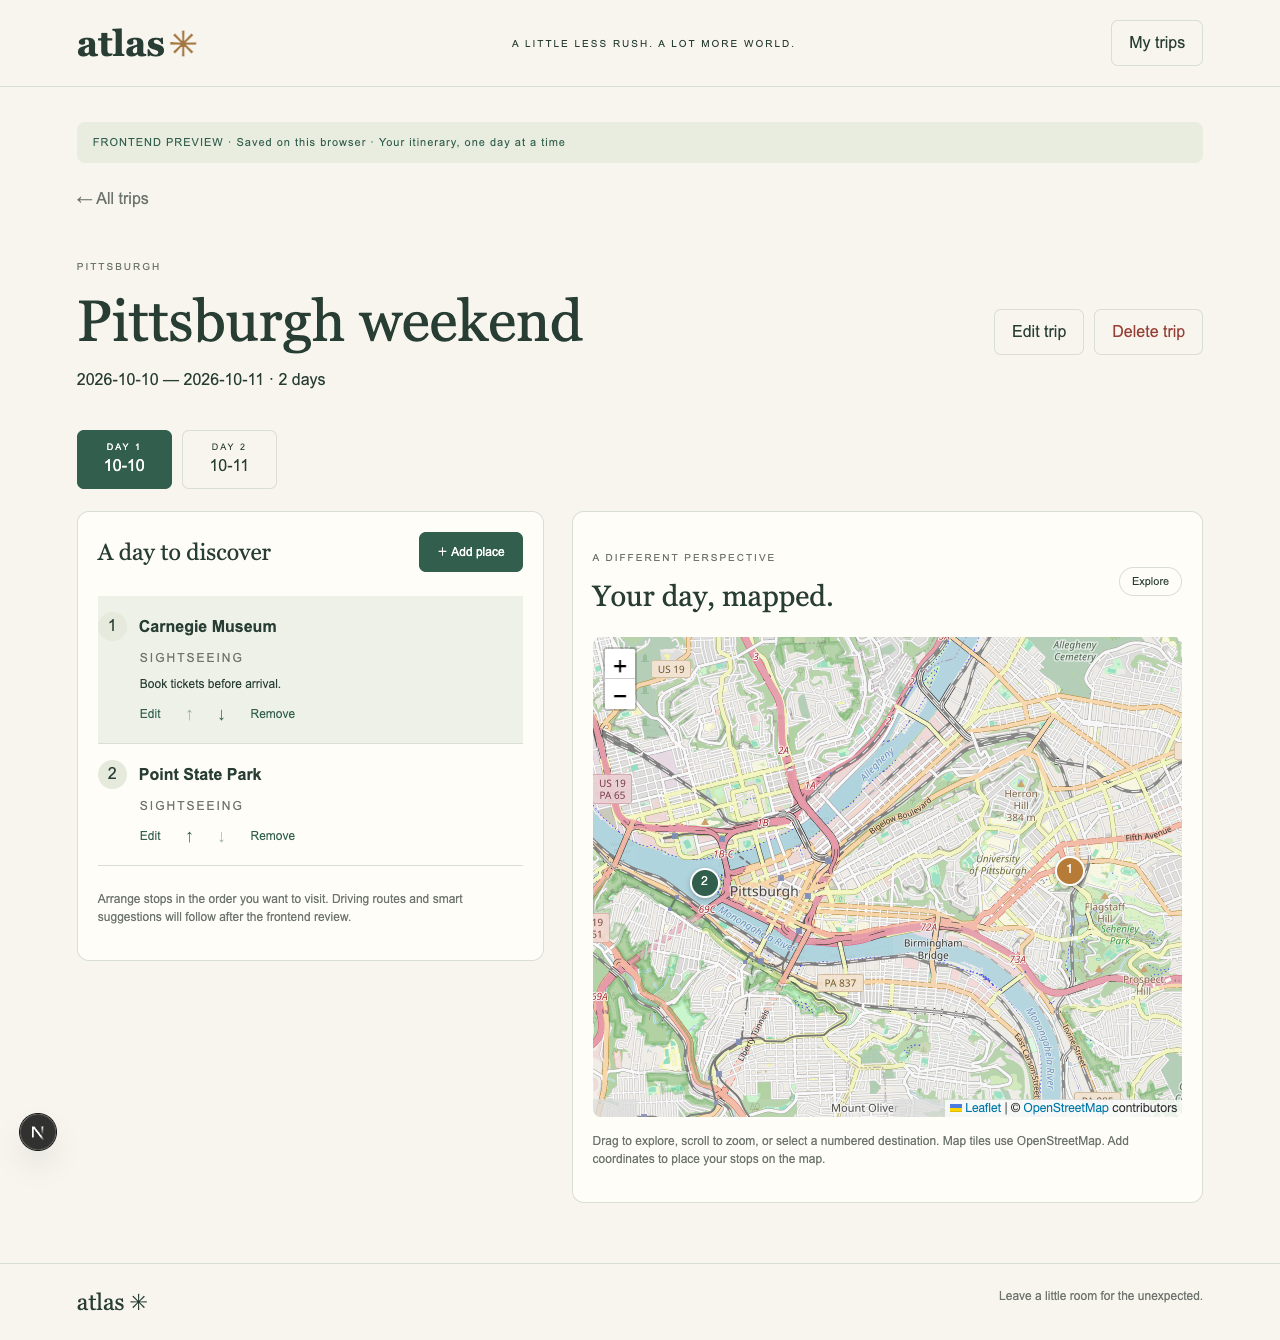
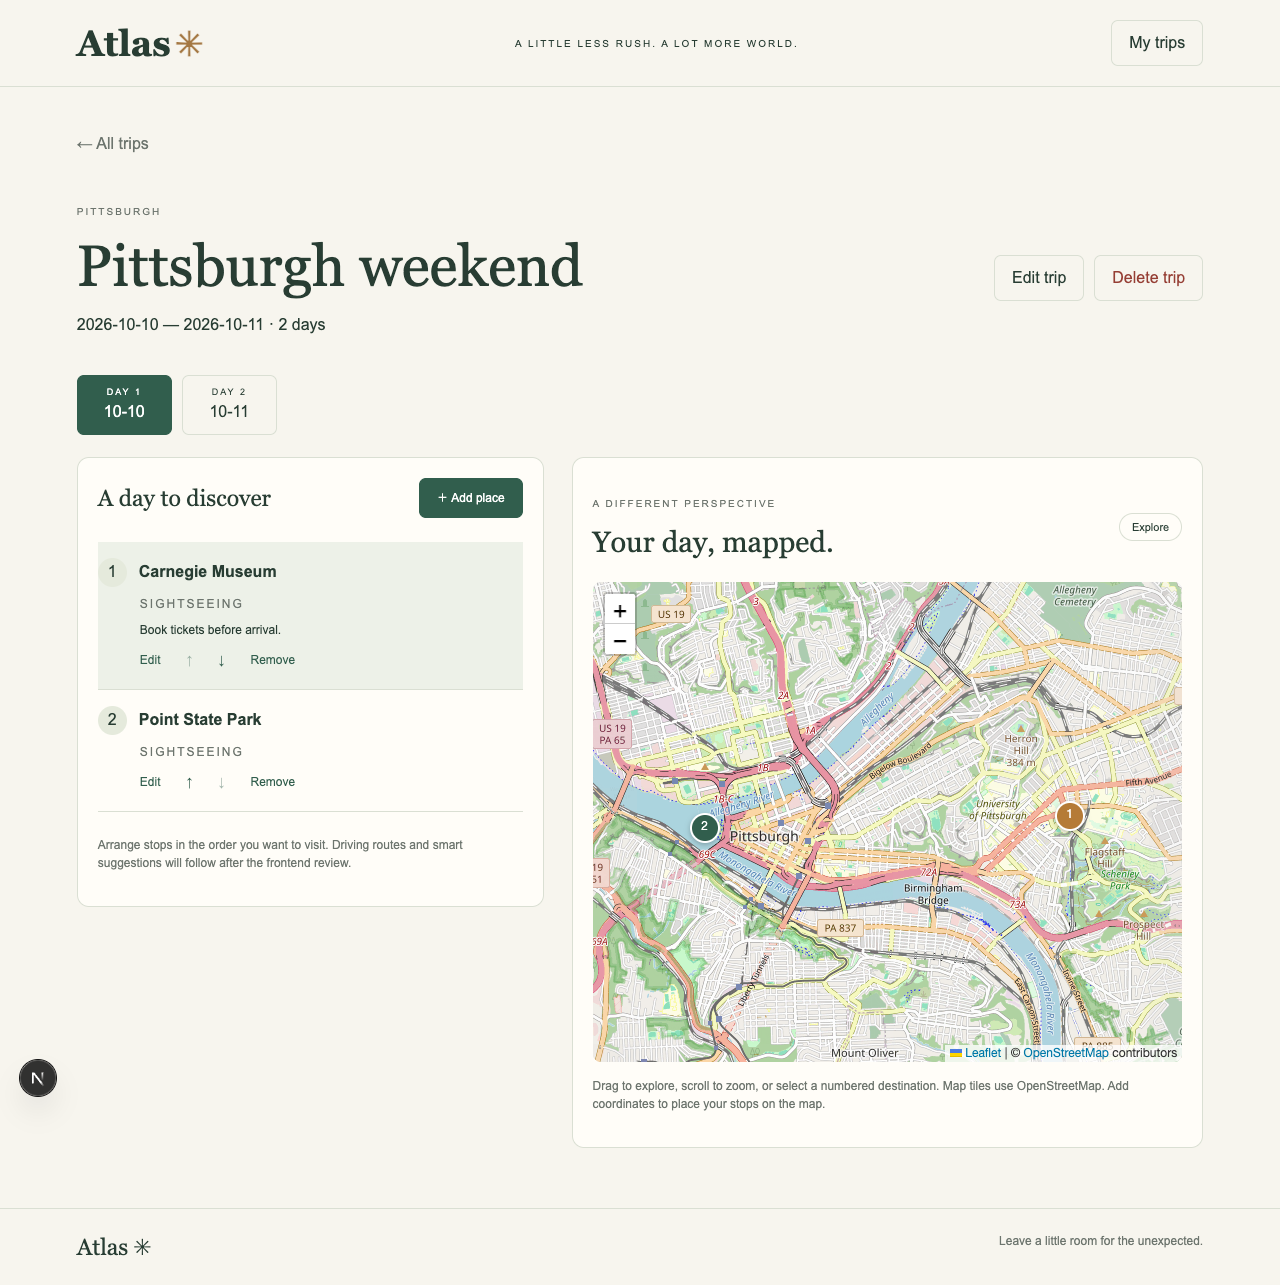
Polish Atlas branding and allow dashboard trip deletion

diff --git a/frontend/app/page.tsx b/frontend/app/page.tsx
@@ -169,6 +169,18 @@ export default function Home() {
     );
   }
 
+  function deleteTrip(target: Trip) {
+    if (!window.confirm(`Delete “${target.name}” and all its destinations?`)) return;
+    void run(async () => {
+      await api(`/trips/${target.id}`, 'DELETE', { revision: target.revision });
+      setTrips((current) => current.filter((item) => item.id !== target.id));
+      if (tripId === target.id) {
+        clearRoute();
+        setTripId(null);
+      }
+    });
+  }
+
   function exportTrips() {
     const url = URL.createObjectURL(
       new Blob([JSON.stringify(trips, null, 2)], { type: 'application/json' }),
@@ -184,7 +196,7 @@ export default function Home() {
     <>
       <header className="topbar">
         <a className="brand" href="/">
-          atlas<span>✳</span>
+          Atlas<span>✳</span>
         </a>
         <span>A LITTLE LESS RUSH. A LOT MORE WORLD.</span>
         <button
@@ -198,9 +210,6 @@ export default function Home() {
         </button>
       </header>
       <main>
-        <p className="preview-banner">
-          FRONTEND PREVIEW · Saved on this browser · Your itinerary, one day at a time
-        </p>
         {error && (
           <div className="error" role="alert">
             {error}{' '}
@@ -323,9 +332,19 @@ export default function Home() {
                     <p>
                       {item.startDate} — {item.endDate}
                     </p>
-                    <button className="secondary" onClick={() => openTrip(item)}>
-                      Open itinerary →
-                    </button>
+                    <div className="actions">
+                      <button className="secondary" onClick={() => openTrip(item)}>
+                        Open itinerary →
+                      </button>
+                      <button
+                        className="danger"
+                        disabled={busy}
+                        onClick={() => deleteTrip(item)}
+                        aria-label={`Delete ${item.name}`}
+                      >
+                        Delete trip
+                      </button>
+                    </div>
                   </div>
                 </article>
               ))}
@@ -417,19 +436,7 @@ export default function Home() {
                 <button
                   className="danger"
                   disabled={busy}
-                  onClick={() => {
-                    if (window.confirm('Delete this trip and all its destinations?'))
-                      void run(async () => {
-                        await api(`/trips/${trip.id}`, 'DELETE', {
-                          revision: trip.revision,
-                        });
-                        setTrips((current) =>
-                          current.filter((item) => item.id !== trip.id),
-                        );
-                        clearRoute();
-                        setTripId(null);
-                      });
-                  }}
+                  onClick={() => deleteTrip(trip)}
                 >
                   Delete trip
                 </button>
@@ -578,7 +585,7 @@ export default function Home() {
         )}
       </main>
       <footer>
-        atlas ✳ <span>Leave a little room for the unexpected.</span>
+        Atlas ✳ <span>Leave a little room for the unexpected.</span>
       </footer>
       {editor && (
         <EditorDialog

diff --git a/tests/planner.spec.ts b/tests/planner.spec.ts
@@ -123,3 +123,25 @@ test('sample trip is usable and failed storage saves retain form input', async (
   await page.getByRole('button', { name: 'Cancel', exact: true }).click();
   await expect(page.getByRole('heading', { name: 'A little aloha' })).toBeVisible();
 });
+
+test('dashboard delete can be canceled and persists without removing other trips', async ({
+  page,
+}) => {
+  await createTrip(page);
+  await page.getByRole('button', { name: 'My trips' }).click();
+  await page.getByRole('button', { name: 'Explore a sample trip' }).click();
+  await page.getByRole('button', { name: 'My trips' }).click();
+  const remove = page.getByRole('button', {
+    name: 'Delete Pittsburgh weekend',
+    exact: true,
+  });
+  page.once('dialog', (dialog) => dialog.dismiss());
+  await remove.click();
+  await expect(page.locator('.trip-card')).toHaveCount(2);
+  page.once('dialog', (dialog) => dialog.accept());
+  await remove.click();
+  await expect(page.locator('.trip-card')).toHaveCount(1);
+  await page.reload();
+  await expect(page.locator('.trip-card')).toHaveCount(1);
+  await expect(page.getByRole('heading', { name: 'A little aloha' })).toBeVisible();
+});

diff --git a/frontend/app/globals.css b/frontend/app/globals.css
@@ -482,14 +482,6 @@ footer span {
   }
 }
 
-.preview-banner {
-  font-size: 11px;
-  letter-spacing: 1px;
-  padding: 12px 16px;
-  background: #e9eddf;
-  border-radius: 8px;
-  color: var(--green);
-}
 .sample-button {
   margin: 12px 0 0 12px;
 }
